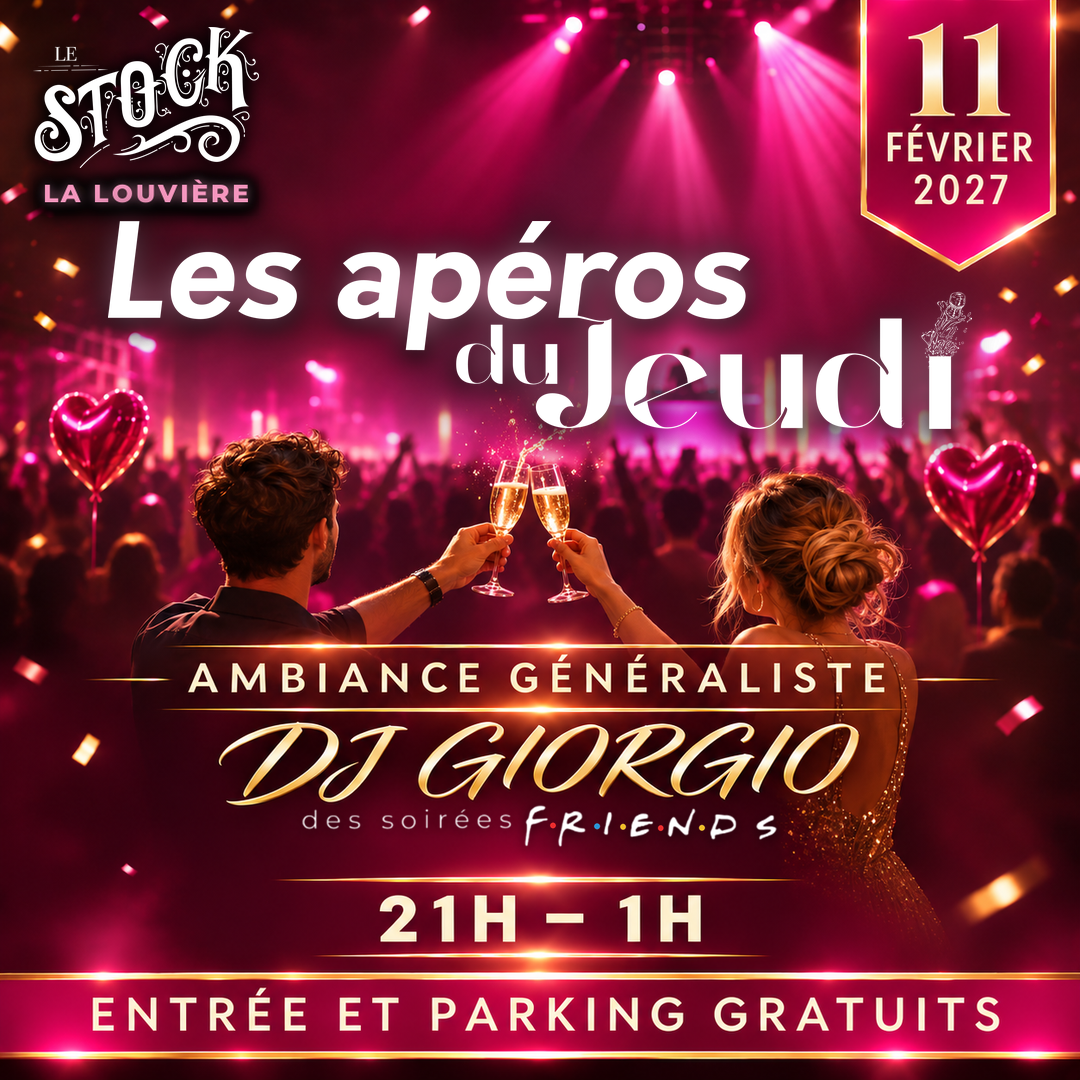
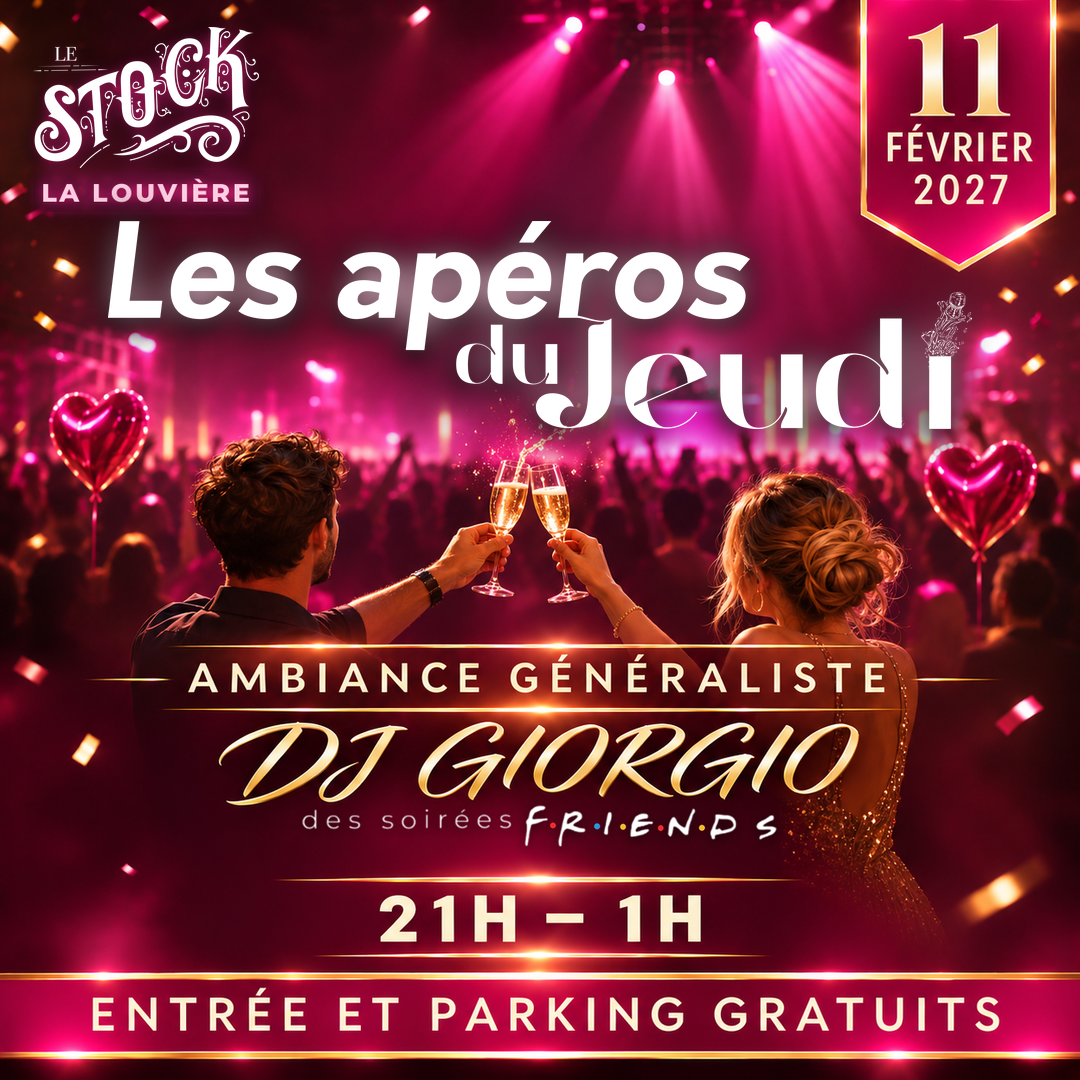
Giorgio : fond de « La Louvière » en framboise au lieu du noir
Claude-Session: https://claude.ai/code/session_0171pQXzzYuCzntyJbLG8A82

diff --git a/tools/mois.py b/tools/mois.py
@@ -6,11 +6,11 @@ from PIL import Image, ImageDraw, ImageFilter
 import compose as C
 
 
-def glowed(lg, col, blur=18, sh_off=8):
+def glowed(lg, col, blur=18, sh_off=8, sh_col=None):
     pad = 40
     out = Image.new('RGBA', (lg.width + 2 * pad, lg.height + 2 * pad), (0, 0, 0, 0))
     a = lg.split()[3]
-    sh = Image.new('RGBA', lg.size, (0, 0, 0, 255)); sh.putalpha(a.point(lambda v: int(v * .85)))
+    sh = Image.new('RGBA', lg.size, (sh_col or (0, 0, 0)) + (255,)); sh.putalpha(a.point(lambda v: int(v * .85)))
     shl = Image.new('RGBA', out.size, (0, 0, 0, 0)); shl.alpha_composite(sh, (pad, pad + sh_off))
     out.alpha_composite(shl.filter(ImageFilter.GaussianBlur(10)))
     gl = Image.new('RGBA', lg.size, col + (255,)); gl.putalpha(a)
@@ -21,7 +21,7 @@ def glowed(lg, col, blur=18, sh_off=8):
     return out, pad
 
 
-def stock_block(width, col):
+def stock_block(width, col, shade=None):
     lg = C.LOGO.resize((width, int(C.LOGO.height * width / C.LOGO.width)), Image.LANCZOS)
     tmp = ImageDraw.Draw(Image.new('L', (1, 1)))
     size = 40
@@ -30,8 +30,8 @@ def stock_block(width, col):
     font = C.F('mont800', size)
     bw = tmp.textlength('LA LOUVIÈRE', font=font)
     tracking = max(0, (width * 0.98 - bw) / 10)
-    dark = tuple(int(c * .35) for c in col)
-    sub = C.text_layer('LA LOUVIÈRE', font, fill=col, glow=dark, glow_r=6, tracking=tracking)
+    dark = shade or tuple(int(c * .35) for c in col)
+    sub = C.text_layer('LA LOUVIÈRE', font, fill=col, glow=dark, glow_r=6, tracking=tracking, shadow=shade is None)
     if sub.width > width:
         sub = sub.resize((width, int(sub.height * width / sub.width)), Image.LANCZOS)
     gap = int(width * 0.01)
@@ -39,7 +39,7 @@ def stock_block(width, col):
     out = Image.new('RGBA', (W, lg.height + gap + sub.height), (0, 0, 0, 0))
     out.alpha_composite(lg, ((W - lg.width) // 2, 0))
     out.alpha_composite(sub, ((W - sub.width) // 2, lg.height + gap))
-    g, pad = glowed(out, (0, 0, 0), blur=8, sh_off=4)
+    g, pad = glowed(out, shade or (0, 0, 0), blur=8, sh_off=4, sh_col=shade)
     return g, pad
 
 
@@ -50,7 +50,8 @@ def main():
     bg = bg.resize((W, H), Image.LANCZOS)
     scx, sy, sw, acx, ay, aw = map(float, a[4:10])
     col = tuple(int(x) for x in a[10:13])
-    s, p = stock_block(int(sw * W), col)
+    shade = tuple(int(x) for x in a[13:16]) if len(a) >= 16 else None
+    s, p = stock_block(int(sw * W), col, shade)
     bg.alpha_composite(s, (int(scx * W - s.width / 2), int(sy * H - p)))
     ap = C.APEROS.resize((int(aw * W), int(C.APEROS.height * aw * W / C.APEROS.width)), Image.LANCZOS)
     g, p = glowed(ap, col)
